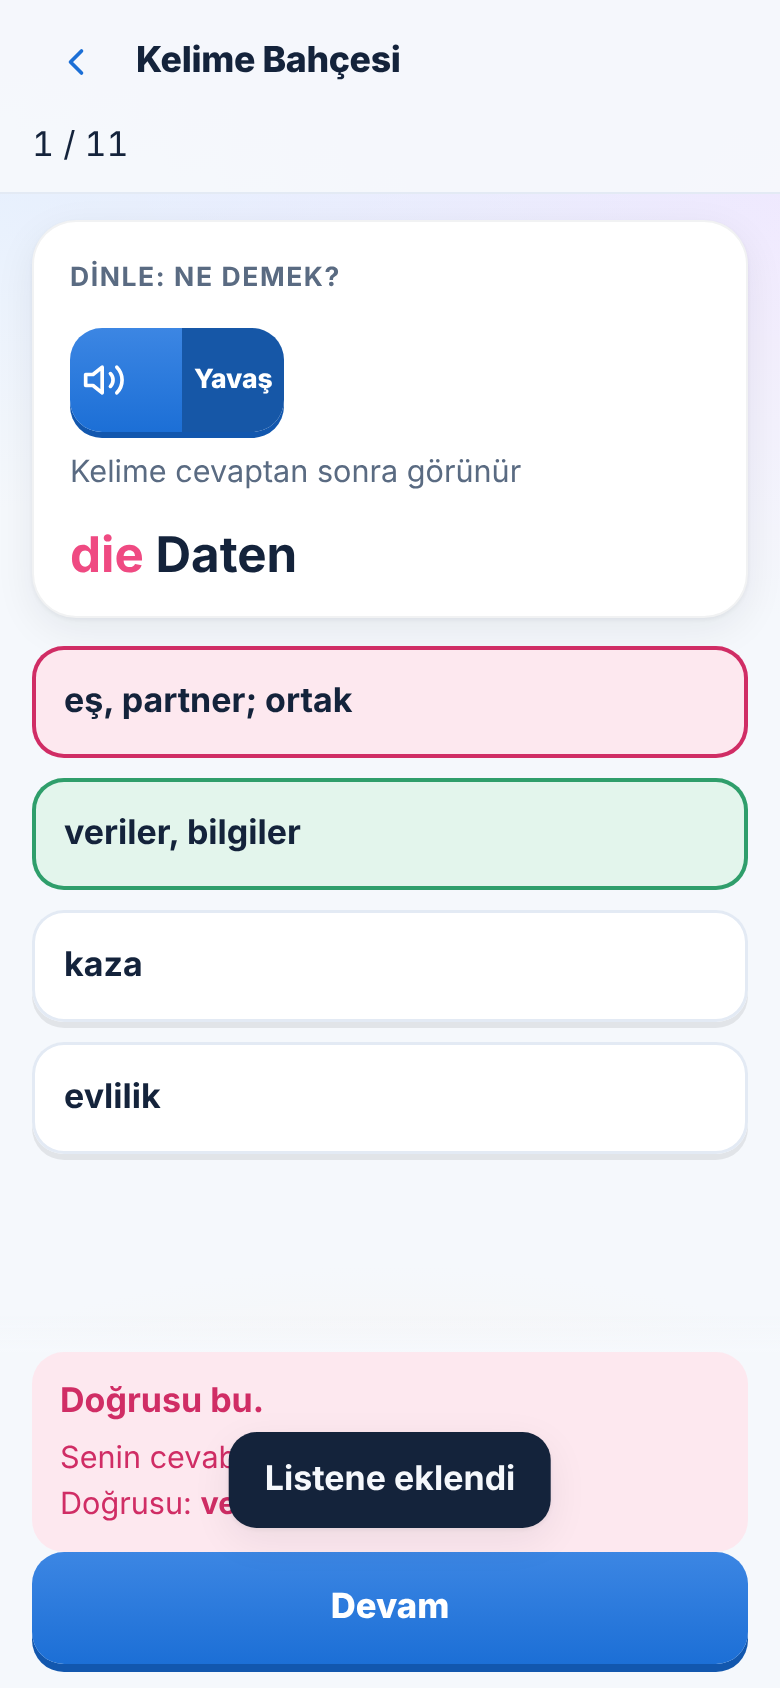
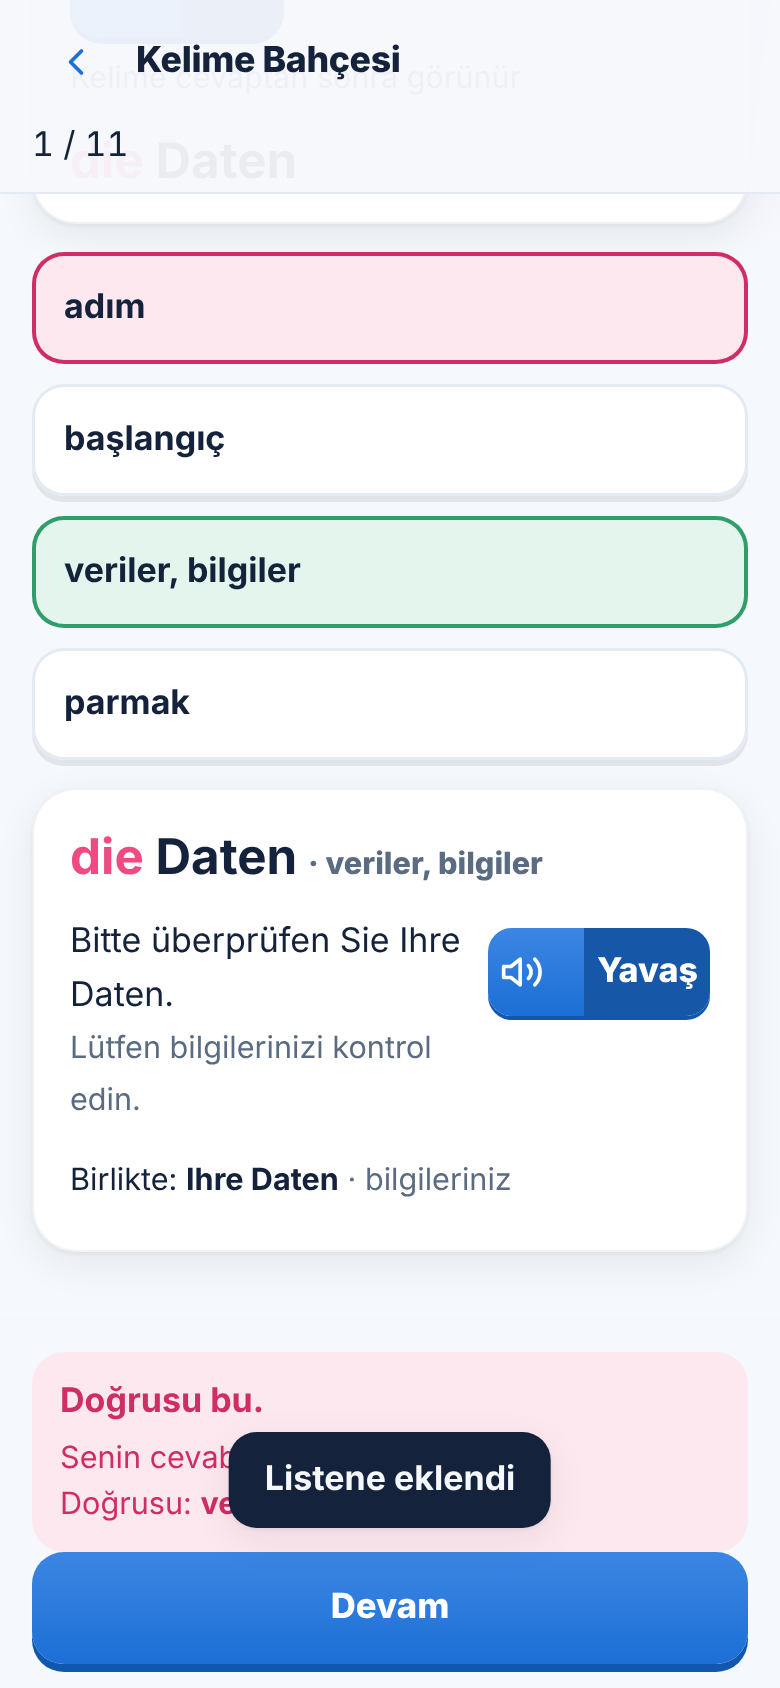
Bahçe: cevaptan sonra kelime örnek cümlesiyle (dinle), fotoğrafı (varsa) ve eşdizimiyle görünür; yanlış kart başka örnekle döner (e2e kanıtı) — PM #59 yorumu
Claude-Session: https://claude.ai/code/session_016gishG3oMjbKiLi4Fij94B

Changed region(s): [[0.0308, 0.1232, 0.9846, 0.7085], [0.9231, 0.154, 0.9846, 0.2156], [0.9538, 0.4005, 0.9846, 0.4313]]

diff --git a/web/src/screens/Garden.tsx b/web/src/screens/Garden.tsx
@@ -122,7 +122,17 @@ function Question({ q, l, all, onDone }: { q: GardenQ; l: Lexeme; all: Lexeme[];
     </div>
   );
 
-  const verdict = res && (
+  // PM (#59 yorumu): cevaptan sonra, doğru ya da yanlış, kelime cümlesiyle görünür — örnek cümle (dinle), fotoğraf, eşdizim
+  const colAfter = collocOf(l);
+  const verdict = res && (<>
+    <section class="card stack fade" data-test="after-card" data-lex={l.id} data-nex={l.examples.length} ref={(el) => { if (el && !el.dataset.seen) { el.dataset.seen = "1"; requestAnimationFrame(() => el.scrollIntoView({ block: "center", behavior: "smooth" })); } }}>
+      <div class="de-lg" lang="de"><Art art={l.art} de={l.de} /> <span class="small muted">· {l.tr}</span></div>
+      <Photo q={ex?.img || l.img} />
+      {ex && <div class="row" style={{ flexWrap: "nowrap", alignItems: "flex-start" }}><span class="grow"><span lang="de" data-test="after-ex">{ex.de}</span><br /><span class="small muted">{ex.tr}</span></span><ListenButton text={ex.de} small /></div>}
+      {colAfter && <p class="small">Birlikte: <b lang="de">{colAfter.de}</b> <span class="muted">· {colAfter.tr}</span></p>}
+    </section>
+    {/* geri bildirim bandı yüksek: kart bandın altında kalmasın diye kaydırma payı */}
+    <div aria-hidden="true" style={{ height: 180 }} />
     <ActionBar>
       {res.ok ? <FeedbackBand kind="ok" title="Doğru.">{res.expected && <span lang="de">{res.expected}</span>}</FeedbackBand>
         : <FeedbackBand kind="bad" title="Doğrusu bu.">
@@ -131,7 +141,7 @@ function Question({ q, l, all, onDone }: { q: GardenQ; l: Lexeme; all: Lexeme[];
             {res.note && <div class="small">{res.note}</div>}
           </FeedbackBand>}
       <button class="btn primary block" data-test="next" onClick={() => next(res.ok ? (hinted ? "hinted" : "correct") : "wrong")}>Devam</button>
-    </ActionBar>
+    </ActionBar></>
   );
 
   if (q.type === "listen_meaning" || q.type === "article" || q.type === "colloc") return <ChoiceQ q={q} l={l} all={all} ex={ex} show={show} verdict={verdict} />;
@@ -207,7 +217,6 @@ function ChoiceQ({ q, l, all, ex, show, verdict }: { q: GardenQ; l: Lexeme; all:
         {q.type === "listen_meaning" ? <div class="row"><ListenButton text={isNoun(l) ? `${l.art} ${l.de}` : l.de} /><span class="small muted">Kelime cevaptan sonra görünür</span></div>
           : <div class="de-lg" lang="de">{m.stem}</div>}
         {picked !== null && q.type !== "colloc" && <div class="de-lg" lang="de"><Art art={l.art} de={l.de} /></div>}
-        {q.type === "article" && ex && picked !== null && <p class="small" lang="de">{ex.de}</p>}
       </section>
       <div role="group">{m.opts.map((o, k) => <button class={`opt${picked === null ? "" : k === m.ans ? " right" : k === picked ? " wrong" : ""}`} disabled={picked !== null} data-opt={k}
         {...(E2E ? { "data-right": k === m.ans ? "1" : undefined } : {})} lang={m.expected === l.tr ? undefined : "de"}

diff --git a/tests/e2e/v2_garden.py b/tests/e2e/v2_garden.py
@@ -10,6 +10,12 @@ from playwright.sync_api import sync_playwright
 from common import serve, launch, new_page, login_onboard, check, finish, shot, arg, no_overflow
 
 PORT = 4191
+AFTER = []  # cevaptan sonraki kart: (kelime, örnek cümle, örnek sayısı)
+
+def note_after(pg):
+    if pg.locator("[data-test=after-card]").count():
+        c = pg.locator("[data-test=after-card]").first
+        AFTER.append((c.get_attribute("data-lex"), pg.inner_text("[data-test=after-ex]") if pg.locator("[data-test=after-ex]").count() else "", int(c.get_attribute("data-nex") or 0)))
 
 def answer_current(pg, wrong=False):
     """Ekrandaki soruyu cevaplar; seçmelide doğru şık e2e derlemesinde data-right ile işaretli"""
@@ -24,6 +30,7 @@ def answer_current(pg, wrong=False):
             old = pg.inner_text("[data-test=garden] .pbar"); pg.click("[data-test=own-ok]")
             pg.wait_for_function("""(old) => document.querySelector('[data-test=garden-done]') || (document.querySelector('[data-test=garden] .pbar')||{}).innerText !== old""", arg=old); return
     pg.wait_for_selector("[data-test=next]")
+    note_after(pg)
     advance(pg)
 
 def advance(pg):
@@ -68,6 +75,10 @@ def main():
             pg.wait_for_selector("[data-test=next]")
             band = pg.inner_text(".actionbar")
             check("Doğrusu" in band and "Senin cevabın" in band, "yanlışta doğrusu öğrencinin cevabıyla yan yana")
+            # PM #59: cevaptan sonra kelime örnek cümlesiyle görünür (tek kelime ekranı değil)
+            check(pg.locator("[data-test=after-card] [data-test=after-ex]").count() == 1, "cevaptan sonra örnek cümle görünüyor")
+            note_after(pg)
+            pg.wait_for_timeout(700)
             if shots: shot(pg, "g02-yanlis", full=False)
             advance(pg)
             sub2 = pg.inner_text("[data-test=garden] .pbar")
@@ -75,6 +86,11 @@ def main():
         n = 1
         while not pg.locator("[data-test=garden-done]").count() and n < 25:
             note(); answer_current(pg); n += 1
+        # yanlış cevaplanan kart tur sonunda başka örnek cümleyle geri geldi (PM #59 madde 2)
+        if AFTER:
+            lx0, ex0, nex0 = AFTER[0]
+            again = [a for a in AFTER[1:] if a[0] == lx0]
+            check(bool(again) and (nex0 < 2 or again[-1][1] != ex0), f"yanlış kart başka örnekle geri geldi ({lx0}: {ex0[:30]!r} → {(again[-1][1] if again else '')[:30]!r})")
         check(any("Daten" in x for x in intros), f"duyduğum kelime (die Daten) bu turda tanıtıldı ({intros[:4]})")
         check(pg.locator("[data-test=garden-done]").count() == 1, f"tur baştan sona bitti ({n} soru)")
         txt = pg.inner_text("[data-test=garden-done]")
